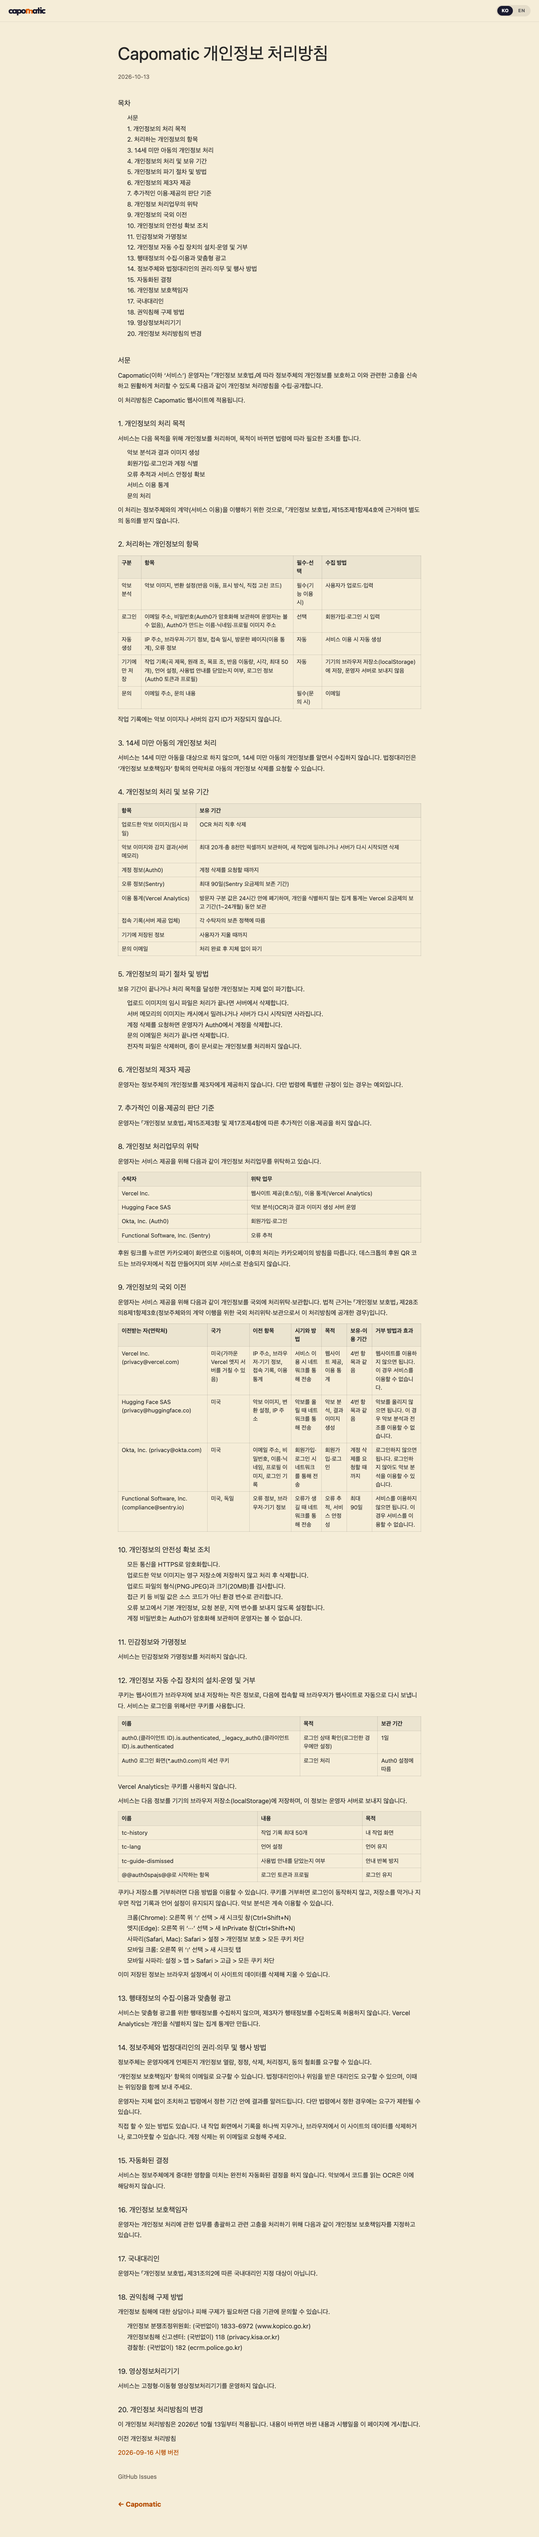
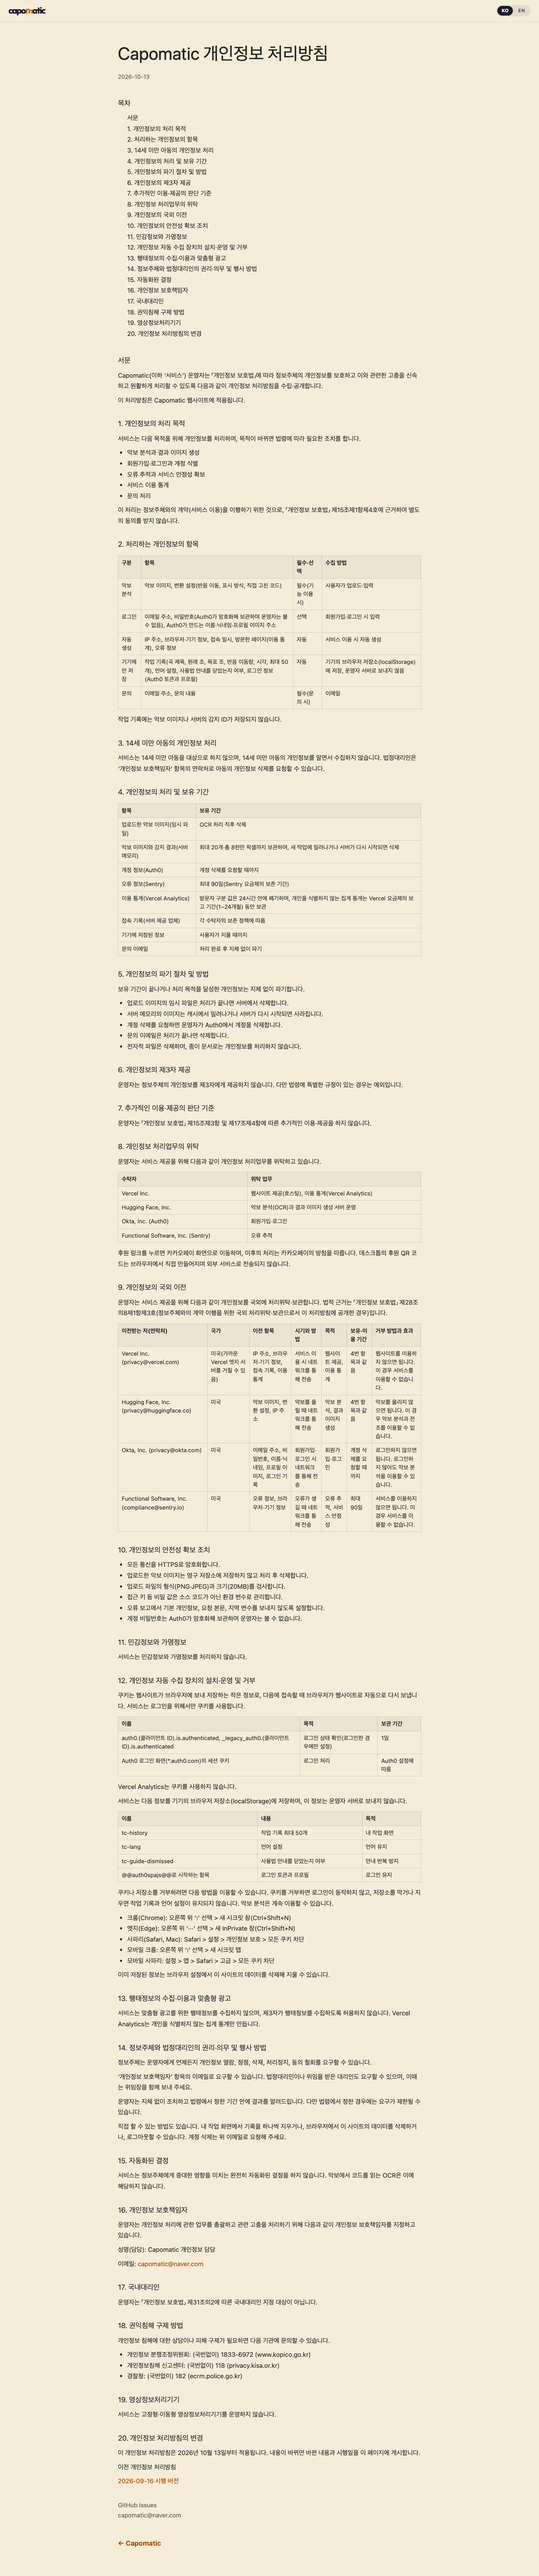
docs(legal): add the privacy officer and contact, correct processors
- Privacy officer "Capomatic 개인정보 담당" / "Capomatic Privacy Officer"
  and capomatic@naver.com for privacy and rights-holder requests, shown
  as mailto links in privacy section 16 and terms "권리자 요청".
- Sentry transfers go to the United States only; the org region is US.
- The Hugging Face processor and recipient is Hugging Face, Inc.
- Restore list bullets in legal pages; Tailwind's base reset hid them.

diff --git a/frontend/pages/privacy.tsx b/frontend/pages/privacy.tsx
@@ -8,12 +8,11 @@ const IS_TOSS = process.env.NEXT_PUBLIC_APP_TARGET === 'toss';
 // Short-circuit on IS_TOSS so the minifier drops the support sentences from the Toss bundle.
 const HAS_SUPPORT = !IS_TOSS && Boolean(supportUrl(process.env.NEXT_PUBLIC_SUPPORT_URL, process.env.NEXT_PUBLIC_APP_TARGET));
 
-function officer(nameLabel: string, emailLabel: string): Block[] {
-  const rows = [
-    PRIVACY_OFFICER_NAME && `${nameLabel}: ${PRIVACY_OFFICER_NAME}`,
-    PRIVACY_CONTACT_EMAIL && `${emailLabel}: ${PRIVACY_CONTACT_EMAIL}`,
-  ].filter((row): row is string => Boolean(row));
-  return rows.length ? [{ list: rows }] : [];
+function officer(lang: 'ko' | 'en', nameLabel: string, emailLabel: string): Block[] {
+  return [
+    ...(PRIVACY_OFFICER_NAME[lang] ? [`${nameLabel}: ${PRIVACY_OFFICER_NAME[lang]}`] : []),
+    ...(PRIVACY_CONTACT_EMAIL ? [{ label: `${emailLabel}: `, href: `mailto:${PRIVACY_CONTACT_EMAIL}`, text: PRIVACY_CONTACT_EMAIL }] : []),
+  ];
 }
 
 const ko: Section[] = [
@@ -86,7 +85,7 @@ const ko: Section[] = [
     { table: [
       ['수탁자', '위탁 업무'],
       ...(IS_TOSS ? [] : [['Vercel Inc.', '웹사이트 제공(호스팅), 이용 통계(Vercel Analytics)']]),
-      ['Hugging Face SAS', '악보 분석(OCR)과 결과 이미지 생성 서버 운영'],
+      ['Hugging Face, Inc.', '악보 분석(OCR)과 결과 이미지 생성 서버 운영'],
       ...(IS_TOSS ? [] : [['Okta, Inc. (Auth0)', '회원가입·로그인']]),
       ['Functional Software, Inc. (Sentry)', '오류 추적'],
     ] },
@@ -98,9 +97,9 @@ const ko: Section[] = [
     { table: [
       ['이전받는 자(연락처)', '국가', '이전 항목', '시기와 방법', '목적', '보유·이용 기간', '거부 방법과 효과'],
       ...(IS_TOSS ? [] : [['Vercel Inc. (privacy@vercel.com)', '미국(가까운 Vercel 엣지 서버를 거칠 수 있음)', 'IP 주소, 브라우저·기기 정보, 접속 기록, 이용 통계', '서비스 이용 시 네트워크를 통해 전송', '웹사이트 제공, 이용 통계', '4번 항목과 같음', '웹사이트를 이용하지 않으면 됩니다. 이 경우 서비스를 이용할 수 없습니다.']]),
-      ['Hugging Face SAS (privacy@huggingface.co)', '미국', '악보 이미지, 변환 설정, IP 주소', '악보를 올릴 때 네트워크를 통해 전송', '악보 분석, 결과 이미지 생성', '4번 항목과 같음', '악보를 올리지 않으면 됩니다. 이 경우 악보 분석과 전조를 이용할 수 없습니다.'],
+      ['Hugging Face, Inc. (privacy@huggingface.co)', '미국', '악보 이미지, 변환 설정, IP 주소', '악보를 올릴 때 네트워크를 통해 전송', '악보 분석, 결과 이미지 생성', '4번 항목과 같음', '악보를 올리지 않으면 됩니다. 이 경우 악보 분석과 전조를 이용할 수 없습니다.'],
       ...(IS_TOSS ? [] : [['Okta, Inc. (privacy@okta.com)', '미국', '이메일 주소, 비밀번호, 이름·닉네임, 프로필 이미지, 로그인 기록', '회원가입·로그인 시 네트워크를 통해 전송', '회원가입·로그인', '계정 삭제를 요청할 때까지', '로그인하지 않으면 됩니다. 로그인하지 않아도 악보 분석을 이용할 수 있습니다.']]),
-      ['Functional Software, Inc. (compliance@sentry.io)', '미국, 독일', '오류 정보, 브라우저·기기 정보', '오류가 생길 때 네트워크를 통해 전송', '오류 추적, 서비스 안정성', '최대 90일', '서비스를 이용하지 않으면 됩니다. 이 경우 서비스를 이용할 수 없습니다.'],
+      ['Functional Software, Inc. (compliance@sentry.io)', '미국', '오류 정보, 브라우저·기기 정보', '오류가 생길 때 네트워크를 통해 전송', '오류 추적, 서비스 안정성', '최대 90일', '서비스를 이용하지 않으면 됩니다. 이 경우 서비스를 이용할 수 없습니다.'],
     ] },
   ] },
   { heading: '10. 개인정보의 안전성 확보 조치', paragraphs: [
@@ -163,7 +162,7 @@ const ko: Section[] = [
   ] },
   { heading: '16. 개인정보 보호책임자', paragraphs: [
     '운영자는 개인정보 처리에 관한 업무를 총괄하고 관련 고충을 처리하기 위해 다음과 같이 개인정보 보호책임자를 지정하고 있습니다.',
-    ...officer('성명(담당)', '이메일'),
+    ...officer('ko', '성명(담당)', '이메일'),
   ] },
   { heading: '17. 국내대리인', paragraphs: [
     '운영자는 「개인정보 보호법」 제31조의2에 따른 국내대리인 지정 대상이 아닙니다.',
@@ -257,7 +256,7 @@ const en: Section[] = [
     { table: [
       ['Processor', 'Task'],
       ...(IS_TOSS ? [] : [['Vercel Inc.', 'Website hosting, usage statistics (Vercel Analytics)']]),
-      ['Hugging Face SAS', 'Running the server that analyses sheets (OCR) and creates result images'],
+      ['Hugging Face, Inc.', 'Running the server that analyses sheets (OCR) and creates result images'],
       ...(IS_TOSS ? [] : [['Okta, Inc. (Auth0)', 'Sign-up and login']]),
       ['Functional Software, Inc. (Sentry)', 'Error tracking'],
     ] },
@@ -269,9 +268,9 @@ const en: Section[] = [
     { table: [
       ['Recipient (contact)', 'Country', 'Items', 'When and how', 'Purpose', 'Retention', 'How to refuse, and the effect'],
       ...(IS_TOSS ? [] : [['Vercel Inc. (privacy@vercel.com)', 'United States (requests may pass through a nearby Vercel edge server)', 'IP address, browser and device information, access logs, usage statistics', 'Sent over the network when you use the service', 'Hosting the website, usage statistics', 'As in section 4', 'Do not use the website. You will then be unable to use the service.']]),
-      ['Hugging Face SAS (privacy@huggingface.co)', 'United States', 'Sheet image, transform settings, IP address', 'Sent over the network when you upload a sheet', 'Analysing sheets, creating result images', 'As in section 4', 'Do not upload sheets. You will then be unable to analyse or transpose sheets.'],
+      ['Hugging Face, Inc. (privacy@huggingface.co)', 'United States', 'Sheet image, transform settings, IP address', 'Sent over the network when you upload a sheet', 'Analysing sheets, creating result images', 'As in section 4', 'Do not upload sheets. You will then be unable to analyse or transpose sheets.'],
       ...(IS_TOSS ? [] : [['Okta, Inc. (privacy@okta.com)', 'United States', 'Email address, password, name, nickname, profile image, login records', 'Sent over the network at sign-up or login', 'Sign-up and login', 'Until you ask for the account to be deleted', 'Do not log in. You can still analyse sheets without logging in.']]),
-      ['Functional Software, Inc. (compliance@sentry.io)', 'United States, Germany', 'Error information, browser and device information', 'Sent over the network when an error occurs', 'Error tracking, service stability', 'Up to 90 days', 'Do not use the service. You will then be unable to use it.'],
+      ['Functional Software, Inc. (compliance@sentry.io)', 'United States', 'Error information, browser and device information', 'Sent over the network when an error occurs', 'Error tracking, service stability', 'Up to 90 days', 'Do not use the service. You will then be unable to use it.'],
     ] },
   ] },
   { heading: '10. Security measures', paragraphs: [
@@ -334,7 +333,7 @@ const en: Section[] = [
   ] },
   { heading: '16. Privacy officer', paragraphs: [
     'The operator has appointed the following privacy officer to oversee the processing of personal information and handle related complaints.',
-    ...officer('Name (role)', 'Email'),
+    ...officer('en', 'Name (role)', 'Email'),
   ] },
   { heading: '17. Domestic representative', paragraphs: [
     'The operator is not required to appoint a domestic representative under Article 31-2 of the Personal Information Protection Act.',

diff --git a/frontend/pages/terms.tsx b/frontend/pages/terms.tsx
@@ -1,9 +1,14 @@
 import LegalPage, { type Section } from '@/components/LegalPage';
+import { LEGAL_CONTACT_EMAIL } from '@/lib/legal-contact';
 import { supportUrl } from '@/lib/support-link.mjs';
 
 const IS_TOSS = process.env.NEXT_PUBLIC_APP_TARGET === 'toss';
 // Same gate as the support link itself: null in the Toss build or when unset.
 const HAS_SUPPORT = !IS_TOSS && Boolean(supportUrl(process.env.NEXT_PUBLIC_SUPPORT_URL, process.env.NEXT_PUBLIC_APP_TARGET));
+
+const contact = (label: string) => (LEGAL_CONTACT_EMAIL
+  ? [{ label: `${label}: `, href: `mailto:${LEGAL_CONTACT_EMAIL}`, text: LEGAL_CONTACT_EMAIL }]
+  : []);
 
 const sections: { ko: Section[]; en: Section[] } = {
   ko: [
@@ -35,6 +40,7 @@ const sections: { ko: Section[]; en: Section[] } = {
     ] },
     { heading: '권리자 요청', paragraphs: [
       '원작자나 권리자는 아래 문의 경로로 요청할 수 있습니다. 서비스 이용 중단 요청이나 홍보물·예시에서의 제외 요청 등이 해당합니다. 운영자는 요청을 확인한 뒤 빠르게 조치하고 결과를 알려드립니다.',
+      ...contact('이메일'),
       '요청에는 다음 내용을 적어 주세요.',
       { list: [
         '권리자 정보와 연락 방법',
@@ -83,6 +89,7 @@ const sections: { ko: Section[]; en: Section[] } = {
     ] },
     { heading: 'Requests from rights holders', paragraphs: [
       'Creators and rights holders can contact us through the channel below, for example to ask us to stop the service being used for a work, or to be left out of promotional material or examples. We will review the request, act on it promptly and tell you the outcome.',
+      ...contact('Email'),
       'Please include:',
       { list: [
         'who you are and how to reach you;',

diff --git a/frontend/components/LegalPage.tsx b/frontend/components/LegalPage.tsx
@@ -5,7 +5,7 @@ import { Wordmark } from '@/components/Wordmark';
 import { LEGAL_CONTACT_EMAIL } from '@/lib/legal-contact';
 
 // A table's first row is its header.
-export type Block = string | { list: string[] } | { table: string[][] } | { href: string; text: string };
+export type Block = string | { list: string[] } | { table: string[][] } | { href: string; text: string; label?: string };
 export type Section = { heading: string; paragraphs: Block[] };
 
 interface LegalPageProps {
@@ -21,7 +21,7 @@ const cellStyle = { padding: '6px 8px', border: '1px solid rgba(0,0,0,0.12)', te
 function renderBlock(block: Block, key: number) {
   if (typeof block === 'string') return <p key={key} style={textStyle}>{block}</p>;
   if ('list' in block) {
-    return <ul key={key} style={{ ...textStyle, paddingLeft: 22 }}>{block.list.map((item, i) => <li key={i}>{item}</li>)}</ul>;
+    return <ul key={key} style={{ ...textStyle, paddingLeft: 22, listStyle: 'disc' }}>{block.list.map((item, i) => <li key={i}>{item}</li>)}</ul>;
   }
   if ('table' in block) {
     const [head, ...rows] = block.table;
@@ -34,7 +34,11 @@ function renderBlock(block: Block, key: number) {
       </div>
     );
   }
-  return <p key={key} style={textStyle}><Link href={block.href} style={{ color: '#b44a00' }}>{block.text}</Link></p>;
+  // Internal pages go through Link; mailto and other external links stay plain anchors.
+  const link = block.href.startsWith('/')
+    ? <Link href={block.href} style={{ color: '#b44a00' }}>{block.text}</Link>
+    : <a href={block.href} style={{ color: '#b44a00' }}>{block.text}</a>;
+  return <p key={key} style={textStyle}>{block.label}{link}</p>;
 }
 
 export default function LegalPage({ title, sections, updated = '2026-09-16', toc = false }: LegalPageProps) {

diff --git a/frontend/lib/legal-contact.ts b/frontend/lib/legal-contact.ts
@@ -1,6 +1,6 @@
 // Owner-supplied contact details for the legal pages. Never invent these:
 // an empty value hides its line. The privacy policy is not ready to ship
-// until both privacy values are filled in (개인정보 보호법 제30조, 제31조).
-export const PRIVACY_OFFICER_NAME = '';
-export const PRIVACY_CONTACT_EMAIL = '';
-export const LEGAL_CONTACT_EMAIL = '';
+// unless both privacy values are filled in (개인정보 보호법 제30조, 제31조).
+export const PRIVACY_OFFICER_NAME = { ko: 'Capomatic 개인정보 담당', en: 'Capomatic Privacy Officer' };
+export const PRIVACY_CONTACT_EMAIL = 'capomatic@naver.com';
+export const LEGAL_CONTACT_EMAIL = 'capomatic@naver.com';
